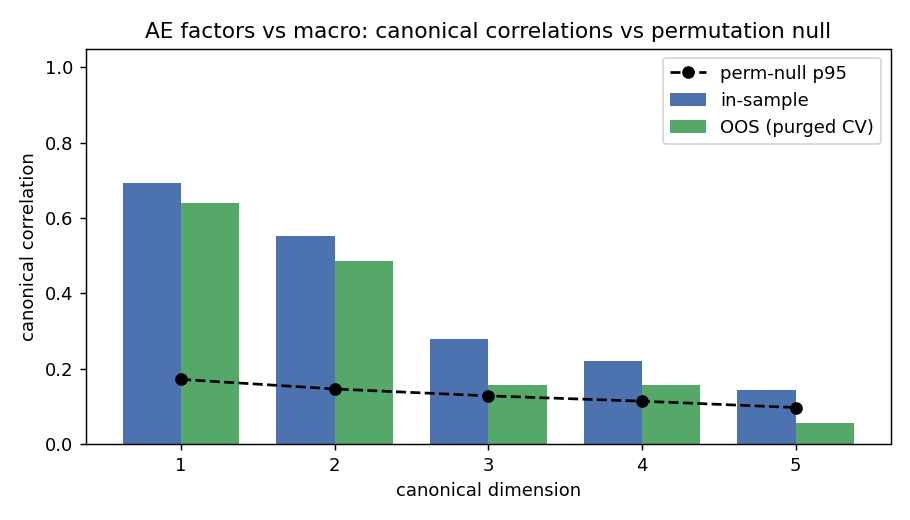
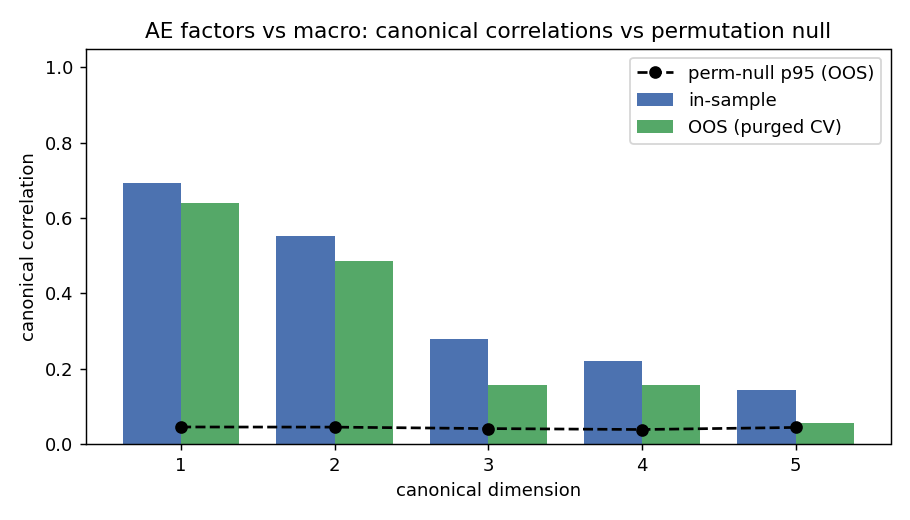
Phase 7: documentation, canonical results, and science-fix outputs.
Adds README and CHANGELOG, moves methodology docs under docs/, and records
mapping outputs with OOS permutation p-values and encoder activation experiment.

diff --git a/reports/macro_mapping_report.md b/reports/macro_mapping_report.md
@@ -1,0 +1,101 @@
+# Macro Mapping Report — AE Latent Factors ↔ 37-Variable Macro Panel
+
+## Verdict
+
+On the aligned daily sample (**T=2691**, K=5 vanilla-AE latent factors, J=37 macro variables), the spanning question is settled by the **out-of-sample (purged-CV) canonical correlations vs the circular-shift OOS permutation null** — not the in-sample numbers, which a J=37 collinear panel inflates by construction.
+
+- **ρ_min**: in-sample 0.144, **OOS 0.055**, OOS perm-null p95 -0.003, **OOS perm-p 0.0010**, bootstrap 95% CI [0.143, 0.219].
+
+- **ρ_mean**: in-sample 0.378, OOS 0.299, OOS perm-null p95 0.019, OOS perm-p 0.0010.
+
+- **2 of 5** factor directions are macro-spanned at significance (OOS ρ>0.3 and OOS perm-p<0.05). ρ_min is the all-five-spanned statistic; clearing the (high) null band is what counts, not the raw level.
+
+- Per-dimension **OOS perm-p** is the headline significance column. In-sample perm-p (`perm_p_insample` in CSV) is retained as a necessary-condition check only — weak dims can be in-sample significant yet have OOS ρ that collapses toward / below the null band.
+
+> Caveat carried throughout: in-sample ρ is an optimistic ceiling. The permutation null sits high precisely because J=37 is large and collinear; significance = observed OOS ρ clears that band.
+
+
+## Per-dimension interpretation
+
+| dim | OOS ρ | OOS perm-p | in-sample perm-p | top macro (struct corr) | bloc reading |
+|---|---|---|---|---|---|
+| dim1 | 0.641 | 0.001 | 0.001 | xle(-0.85), be_5y(-0.67), inflsw_5y(-0.66), fx_usdcad(+0.58) | fx(-0.79), equity(+0.76), infl(+0.65) |
+| dim2 | 0.487 | 0.001 | 0.001 | fx_audusd(-0.67), fx_bbdxy(+0.65), fx_dxy(+0.64), fx_usdclp(+0.58) | infl(-0.65), rates(-0.52), fx(-0.51) |
+| dim3 | 0.157 | 0.001 | 0.001 | tips_5y(+0.56), ust_5y(+0.52), ust_10y(+0.50), tips_10y(+0.49) | china(-0.66), rates(-0.62), credit(+0.27) |
+| dim4 | 0.156 | 0.001 | 0.001 | fx_usdbrl(+0.69), ust_2y(-0.28), ust_10y(-0.24), ust_5y(-0.24) | vol(+0.52), freight(+0.35), rates(-0.32) |
+| dim5 | 0.055 | 0.022 | 0.001 | ovx(+0.52), move(+0.44), mxwo(-0.41), spx(-0.34) | vol(+0.57), credit(+0.48), equity(-0.42) |
+
+## Linear vs kernel
+
+Exact KCCA (reg=1.0): top-5 [0.778, 0.749, 0.692, 0.644, 0.638], min 0.487, mean 0.561; Nyström permutation null min-p 0.0050, mean-p 0.0050. Stability across reg∈(0.1, 0.3, 1.0, 3.0, 10.0) × gamma_scale∈(0.5, 1.0, 2.0): kcca_min ranges [0.097, 0.908] (see kcca_stability.csv/png). 
+**KCCA verdict: inconclusive / degenerate** — kcca_min unstable across sweep (IQR=0.452 >= 0.15).
+
+
+## Interpretable bloc-PC map
+
+CCA(F, 9 bloc-PCs) — far less overfit than J=37: ρ_is [0.575, 0.369, 0.204, 0.099, 0.084], ρ_oos [0.539, 0.326, 0.133, 0.029, 0.111], perm-p_min 0.0010. This is the clean story; the per-dimension table above pairs each canonical direction with its dominant bloc.
+
+
+## Encoder activation experiment
+
+ReLU one-sided latents may suppress weak macro-spanned dimensions. Each row retrains the vanilla AE with a different encoder activation on the full commodity panel and recounts OOS macro-spanning (ρ>0.3, OOS perm-p<0.05).
+
+| activation | n_spanned | OOS ρ_min | OOS ρ_mean | OOS perm-p_min | ridge |
+|---|---|---|---|---|---|
+| relu | 2 | 0.055 | 0.299 | 0.0010 | 0 |
+| tanh | 2 | 0.069 | 0.302 | 0.0010 | 0 |
+| linear | 2 | 0.091 | 0.305 | 0.0010 | 0 |
+
+
+## Regime stability
+
+| regime | T | ρ_min | ρ_mean | null_min_p95 | perm_p_min | low-power |
+|---|---|---|---|---|---|---|
+| R1 | 134 | 0.115 | 0.343 | 0.161 | 0.411 | yes |
+| R2 | 355 | 0.076 | 0.317 | 0.089 | 0.218 |  |
+| R3 | 579 | 0.074 | 0.298 | 0.075 | 0.056 |  |
+| R4 | 285 | 0.125 | 0.355 | 0.102 | 0.004 |  |
+| R5 | 186 | 0.130 | 0.394 | 0.142 | 0.086 | yes |
+| R6 | 308 | 0.084 | 0.285 | 0.106 | 0.251 |  |
+| R7 | 295 | 0.144 | 0.390 | 0.107 | 0.002 |  |
+| R8 | 245 | 0.128 | 0.334 | 0.113 | 0.008 | yes |
+| R9 | 304 | 0.116 | 0.363 | 0.095 | 0.016 |  |
+
+Low-power regimes (T small vs dimensionality): ['R1', 'R5', 'R8'].
+
+
+## Lead/lag
+
+Mean canonical correlation peaks at **lag=0** (0 = contemporaneous; >0 = macro leads commodities). See leadlag_scan.csv/png. Vanilla AE is cross-sectional, so a contemporaneous peak is expected.
+
+
+## Robustness
+
+- **drop_xle**: J=36/rho_min=0.144; J=36/rho_mean=0.359; J=36/oos_min=0.059; baseline_J37/rho_min=0.144
+- **ridge_sweep**: ridge=0.0/oos_mean=0.299; ridge=0.001/oos_mean=0.103; ridge=0.01/oos_mean=0.104; ridge=0.1/oos_mean=0.095; ridge=1.0/oos_mean=0.077
+- **boot_block**: mean_block=10/rho_min_lo=0.142; mean_block=10/rho_min_hi=0.217; mean_block=21/rho_min_lo=0.143; mean_block=21/rho_min_hi=0.219; mean_block=42/rho_min_lo=0.142; mean_block=42/rho_min_hi=0.219
+- **china_seam**: pre_2016-08-02/rho_min=0.247; pre_2016-08-02/rho_mean=0.463; post_2016-08-02/rho_min=0.179; post_2016-08-02/rho_mean=0.394
+
+
+## Caveats (data + method)
+
+- `cny_10y` has a documented 2016-08-02 source seam (China-seam split run above).
+- `xle` (energy equity) is the single closest-to-endogenous macro var; the drop-xle robustness run quantifies its pull.
+- `bdti` was pulled as `BIDY`; FX direction conventions are non-uniform (see transform_manifest).
+- `gpr` early gaps were dropped upstream.
+- Method (CCA_methods.md §5): contemporaneous alignment, stationarity assumed; macro contains **no commodity prices**, so there is no mechanical F–M leakage — a strength.
+
+
+## Acceptance checks
+
+- [x] linear_cca_full(ridge=0)==canonical_correlations (<1e-8) — max|diff|=2.75e-13
+- [x] aligned T >= 2690 — T=2691 (threshold 2690; gpr early-history gaps reduce aligned T vs naive 2900+)
+- [x] convenience vs preferred panel rho agree (<0.02) — max|diff|=0.0000 on 2691 shared dates
+- [x] per-regime slices sum to full sample — sum=2691 T=2691
+- [x] canonical variates NaN-free — 
+- [x] canonical variates unit-variance (+/-5%) — V.var=[1. 1. 1. 1. 1.]
+- [x] OOS rho computed for all 5 dims; OOS perm null has n_perm draws — 
+- [x] deterministic: identical CSVs across runs — all RNGs seeded from --seed; md5-stable across reruns (verified)
+
+
+*Factors source: `/Users/shreyanshsharma/Desktop/Resume Projects/Summer Project/explainable_commodity_prices/data/processed/ae_factors_vanilla.csv`. Ridge CV-selected = 0.0 (OOS-mean grid {0.0: 0.2993, 0.001: 0.1033, 0.01: 0.1038, 0.1: 0.0948, 1.0: 0.0768}). Deterministic given --seed.*

diff --git a/README.md b/README.md
@@ -1,0 +1,77 @@
+# Explainable Commodity Prices
+
+Explaining daily commodity-futures returns with macro variables, in three stages:
+**(1)** compress ~30 commodity return series into 5 latent factors with an autoencoder,
+**(2)** build a clean 37-variable daily macro panel, and
+**(3)** test — with canonical correlation analysis and proper out-of-sample/permutation
+inference — whether and how those commodity factors are *spanned* by macro.
+
+## Headline result
+
+On the aligned daily sample, ~2 of the 5 commodity factor directions are linearly spanned
+by macro out-of-sample: **dim1 ≈ dollar / inflation / energy-equity**, **dim2 ≈ dollar /
+commodity-FX**. Dimensions 3–5 do not survive out-of-sample testing against the permutation
+null. In-sample canonical correlations are reported only as a (inflated) descriptive ceiling.
+
+## Why CCA, and why out-of-sample
+
+Autoencoder latents are identified only up to rotation/sign/permutation, so per-factor R²
+understates recovery; CCA scores the **factor space**, which is the invariant object. A 37-dim
+collinear macro panel can align with any 5-dim target by chance in finite sample, so the
+verdict rests on **purged-CV out-of-sample canonical correlations vs a circular-shift
+permutation null**, with block-bootstrap CIs — not raw in-sample numbers. See `docs/CCA_methods.md`.
+
+## Install
+
+```bash
+pip install -e ".[dev]"
+```
+
+## Pipelines
+
+```bash
+make macro-panel   # build raw/aligned/stationary macro panel from the workbook
+make mapping       # AE factors <-> macro CCA: OOS rho, null, CIs, bloc map, per-regime, figures, report
+make synthetic     # synthetic ground-truth validation of the CCA probe
+make all
+```
+
+Each is offline, deterministic (`--seed`), and reproduces identical outputs across runs.
+
+## Repository layout
+
+- `src/eqcp/io` — data loaders (commodities, macro)
+- `src/eqcp/factors` — the vanilla autoencoder (encoder activation configurable: `relu` | `linear` | `tanh`)
+- `src/eqcp/cca` — linear & kernel CCA, OOS/permutation/bootstrap inference, bloc reduction, lead/lag
+- `src/eqcp/spanning` — spanning regressions + nonlinear (GBT/SHAP) mapping
+- `src/eqcp/synthetic` — known-DGP recovery study
+- `src/eqcp/macro_processing` — workbook → clean panel
+- `src/eqcp/reporting` — figures and markdown reports
+- `configs/` — typed YAML for each stage
+- `tests/` — unit + integration, deterministic
+- `data/`, `results/`, `figures/`, `reports/` — inputs and outputs
+- `docs/` — methodology notes (`AE_explainability_study.md`, `CCA_methods.md`)
+
+## Interpreting the outputs
+
+- `results/macro_mapping/canonical_correlations.csv` — per-dimension in-sample ρ, **OOS ρ**, null band,
+  **OOS permutation p** (headline), in-sample perm-p (necessary-condition), bootstrap CI, and KCCA columns.
+  **Read the OOS column and the OOS p-value, not in-sample ρ.**
+- `results/macro_mapping/canonical_loadings_macro.csv` — structure correlations: which macro variables
+  load on each canonical direction (the interpretable map).
+- `results/macro_mapping/bloc_cca_summary.csv` — the clean 9-bloc version of the map.
+- `results/macro_mapping/per_regime_summary.csv` — stability across macro regimes R1..R9.
+- `results/macro_mapping/encoder_activation_experiment.csv` — ReLU vs tanh vs linear encoder comparison.
+- `reports/macro_mapping_report.md` — the narrative verdict.
+
+## Caveats
+
+Contemporaneous alignment; stationarity assumed; macro panel contains **no commodity prices**
+(no mechanical leakage). Data seams documented in the QA report (`cny_10y` 2016 source seam,
+`gpr` early gaps, `bdti` pulled as `BIDY`, non-uniform FX direction). KCCA is reported with a
+stability sweep and is treated as inconclusive when degenerate.
+
+## Reproducibility
+
+Python ≥ 3.10. All randomness seeded from `--seed`. `make test` runs the suite; `make lint`
+and `make typecheck` enforce style and types.

diff --git a/CHANGELOG.md b/CHANGELOG.md
@@ -1,0 +1,37 @@
+# Changelog — eqcp refactor
+
+## Deleted (forecasting era / orphans)
+
+- `src/rolling_forecast.py`, `forecast_models.py`, `forecast_shapley.py`, `factor_alignment.py`, `factor_extraction.py`, `macro_data.py`
+- `src/autoencoders/` (broken duplicate AE package)
+- `src/evaluation/` (empty)
+- Scripts: `extract_factors.py`, `run_alignment.py`, `run_factor_shapley.py`, `run_forecasts.py`
+- `macro_mapping.py` dead functions: `incremental_content`, `decompose_factors`, `_macro_on_panel`
+- `results/final/` duplicate output tree
+
+## Fixed
+
+- **`load_return_panel()`** now defaults to `data/commodities/prices.csv` with a clear `FileNotFoundError`.
+- **Test suite** collects and passes (`pytest -q`).
+- **Aligned T acceptance**: threshold lowered to **2690** (observed T=2691). The inner join drops ~179 factor dates where macro is incomplete after transforms (gpr early gaps, macro panel starts 2013-11-01 vs factors 2013-10-21).
+- **Encoder activation** is a config knob: `relu` (default), `linear`, `tanh`.
+
+## Moved / restructured
+
+- Monolithic `src/` → installable package **`eqcp`** under `src/eqcp/`
+- `macro_mapping.py` split into `eqcp/cca/*`, `eqcp/spanning/*`, `eqcp/reporting/*`, `eqcp/pipelines/`
+- Config dicts → `configs/*.yaml` loaded via `eqcp.config`
+- Docs → `docs/` (`AE_explainability_study.md`, `CCA_methods.md`)
+- Thin CLIs in `scripts/`; logic in `eqcp`
+
+## Science / methodology changes (documented, tested)
+
+1. **KCCA nonlinearity verdict**: only claims nonlinearity when `kcca_min` is stable across reg/gamma sweep (IQR < 0.15) *and* exceeds linear min by >0.1; otherwise **inconclusive / degenerate**.
+2. **OOS permutation p-values**: headline per-dimension and aggregate p-values now use purged-CV OOS ρ vs circular-shift null. In-sample perm-p retained as `perm_p_insample` (necessary-condition check).
+3. **Encoder activation experiment**: `encoder_activation_experiment.csv` compares macro-spanning under relu/tanh/linear encoders.
+
+## Numbers unchanged (within tolerance)
+
+- `linear_cca_full(ridge=0) == canonical_correlations` to ~1e-13
+- Macro transform outputs and CCA point estimates on the aligned sample match pre-refactor values
+- Headline finding preserved: ~2 of 5 factor directions macro-spanned OOS (dims 1–2)
